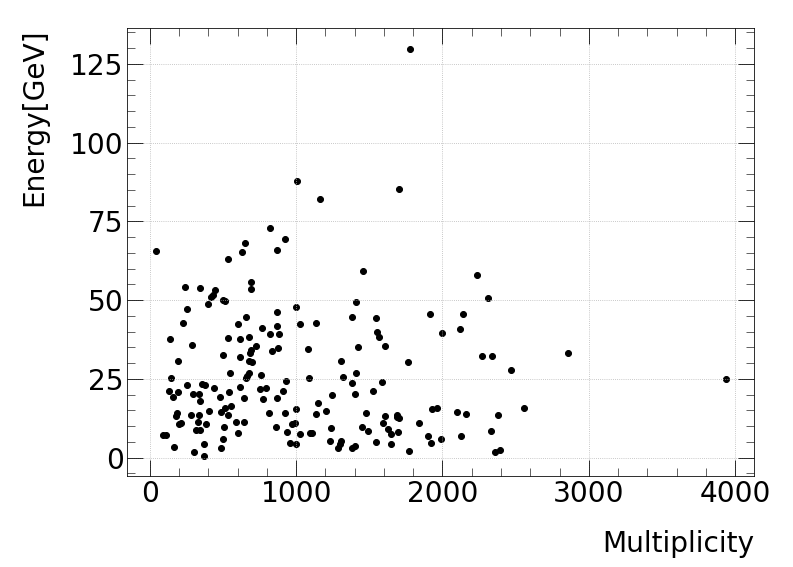
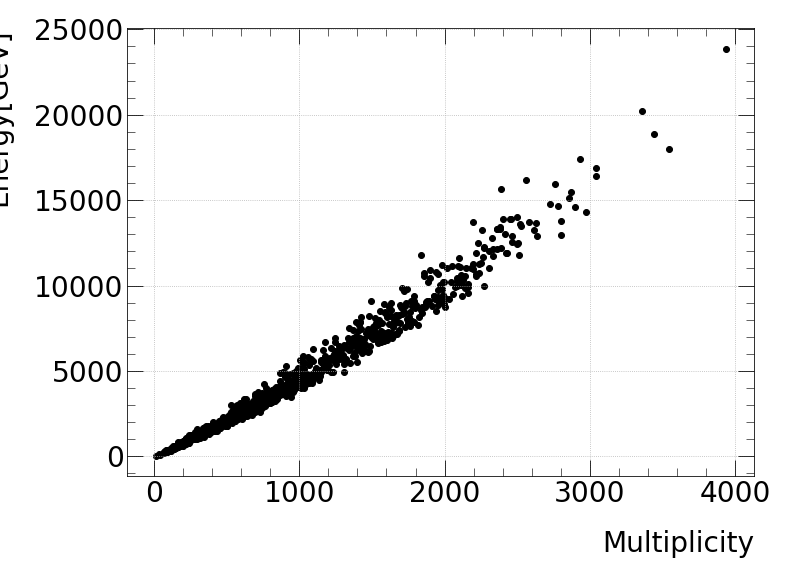
working

diff --git a/sandbox/work_with_input.py b/sandbox/work_with_input.py
@@ -33,8 +33,8 @@ def plot_image(ecalimage, name):
 
 if __name__ == '__main__':
 
-    name = 'case_5' # case number
-    layers = 20
+    name = 'case_3' # case number
+    layers = 5
     location = f'./csv_files/kfold5/{name}/run_0/epoch_25'
     # x = np.random.rand(110,20)
     # x = np.transpose(x)
@@ -110,7 +110,8 @@ if __name__ == '__main__':
         
         # x.append(np.array(energies[str(event)]).sum())
         # y.append(np.array(energies[str(event)]).sum() / sum_dict[str(event)])
-    p.ratio(x, y, f'./sandbox/figures/{name}_ratio.png')
+    # p.ratio(x, y, f'./sandbox/figures/{name}_ratio.png')
+    p.ratio(x, y, f'./sandbox/figures/{name}', location)
 
     x_numpy = np.array(x)
     y_numpy = np.array(y)
@@ -122,4 +123,26 @@ if __name__ == '__main__':
     # p.projection_sandbox(xx, yy1, f'./sandbox/figures/{name}_ratio_projection.png', y_numpy, bins=30)
     
     p.projection_sand(xx, yy1, f'./sandbox/figures/{name}_ratio_projection.png', bins)
-    p.interval_sand(x_numpy, y_numpy, interval=1000, filename=f'./sandbox/figures/{name}_intervals.png')
+    # p.interval_sand(x_numpy, y_numpy, interval=1000, filename=f'./sandbox/figures/{name}_intervals.png')
+    p.interval_sand(x_numpy, y_numpy, interval=100, filename=f'./sandbox/figures/{name}_intervals.png', mypath=location)
+
+    myE = EcalDataIO.energymatio(en_file)
+    events = list(en_dep.keys())
+    energies = list()
+    multiplicties = list()
+
+    for event in events:
+        energies.append(sum(list(myE[event])))
+        multiplicties.append(len(myE[event]))
+
+    fig,ax = pyplot.subplots(num=0)
+
+    energies = np.array(energies)
+    ax.scatter(multiplicties,energies, color='k')
+    # ax.legend(loc=(0.625,0.8))  # defined by left-bottom of legend box; in the ratio of figure size
+    # ax.set_xlim(-3,3)
+    # ax.set_ylim(0,400)
+    ax.set_xlabel(r'Multiplicity')
+    ax.set_ylabel("Energy[GeV]")
+    fname = f'./sandbox/figures/{name}'
+    pyplot.savefig(fname+'_energyvsmultiplicity.png')

diff --git a/shan_scripts/plots.py b/shan_scripts/plots.py
@@ -199,20 +199,28 @@ def tot(xx, yy, fname):
         transform=ax.transAxes, verticalalignment='top', horizontalalignment='left')
     pyplot.savefig(fname)
 
-def ratio(xx, yy, fname):
+def ratio(xx, yy, fname, my_path):
+
+    energies = xx
+    df = pd.read_csv(f'{my_path}/data_frame.csv')
+    xx = df['target']
+
     fig,ax = pyplot.subplots()
     # ax.scatter(xx,yy, color='k', label="E[GeV](output) / PixelSum")
     ax.scatter(xx,yy, color='k')
     ax.legend(loc=(0.625,0.8))  # defined by left-bottom of legend box; in the ratio of figure size
     # ax.set_xlim(-3,3)
     ax.set_ylim(0,400)
-    ax.set_xlabel(r'$E_{gen}[GeV]$')
+    # ax.set_xlabel(r'$E_{gen}[GeV]$')
+    ax.set_xlabel(r'Multiplicity')
     ax.set_ylabel(r'$E_{rec}[GeV] / E^{tot}_{dep}[MeV]$')
     # ax.text(0.45,0.9,"$LUXE$ CNN\ne-laser IPstrong ECAL", \
         # transform=ax.transAxes, verticalalignment='top')
     # ax.text(0.45,0.7,f"180 BXs {layers} first layers", \
         # transform=ax.transAxes, verticalalignment='top')
-    pyplot.savefig(fname)
+    pyplot.savefig(fname+'_ratio.png')
+
+    
 
 def image_hist(location, yy1, num_events):
     pyplot.style.use("./shan_scripts/luxe.mplstyle")
@@ -285,7 +293,13 @@ def projection_sand(xdata, ydata, filename, bins):
     plt.ylabel(f'Occurences, bins={bins}')
     plt.savefig(filename)
 
-def interval_sand(x, y, interval, filename):
+def interval_sand(x, y, interval, filename, mypath):
+
+    df = pd.read_csv(f'{mypath}/data_frame.csv')
+    xx = df['target']
+
+    x = xx
+
     sort = np.argsort(x)
     y = y[sort]
     x = x[sort]
